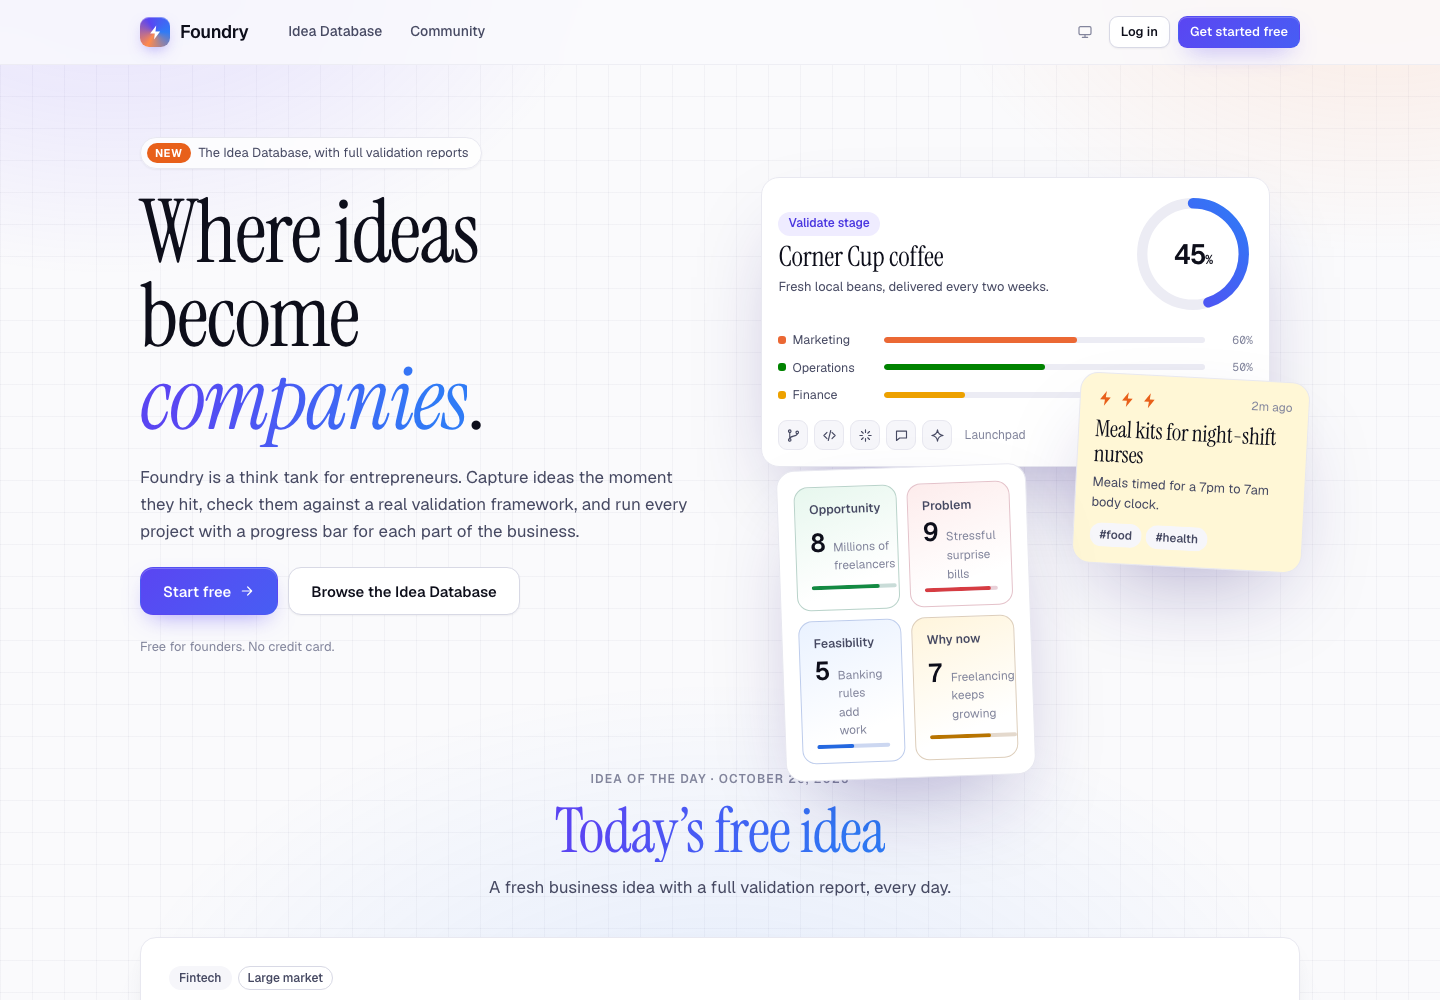
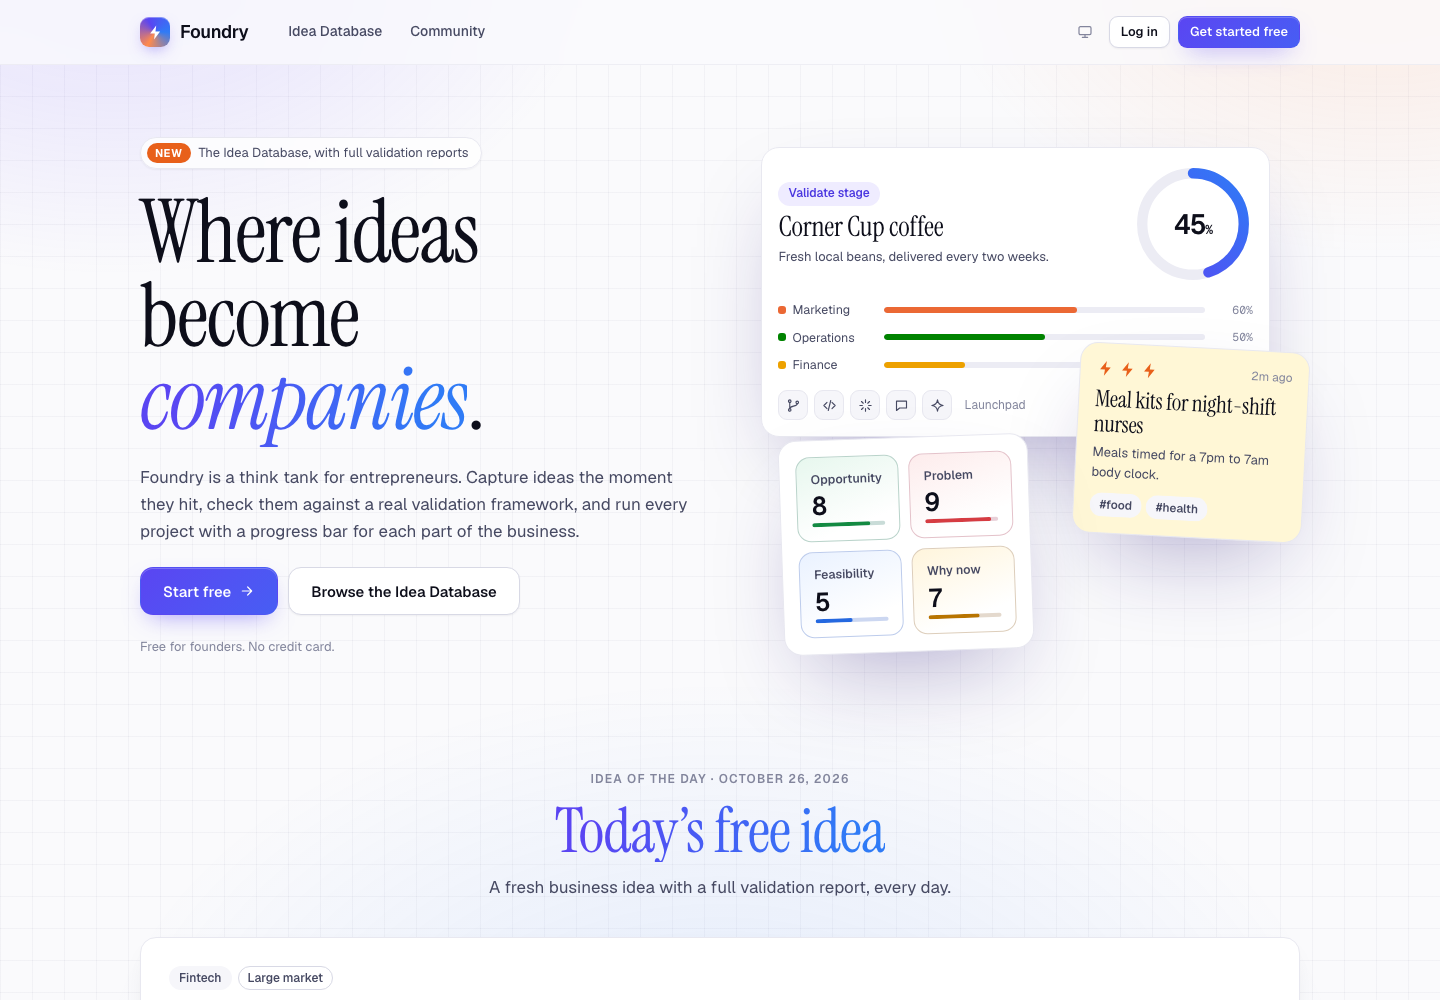
Keep the home page hero from overlapping the next section
The floating score card grew taller than the space the hero reserved for
it, so it covered the Idea of the day heading (and, on phones, part of the
project card). The card now has a fixed height, the hero reserves room for
it, and phones show just the project card.

Changed region(s): [[0.5312, 0.155, 0.9062, 0.744], [0.5625, 0.744, 0.6875, 0.806]]

diff --git a/src/app/globals.css b/src/app/globals.css
@@ -810,7 +810,7 @@ p {
 }
 .hero-visual {
   position: relative;
-  min-height: 460px;
+  min-height: 520px;
 }
 .mock {
   position: absolute;
@@ -835,6 +835,10 @@ p {
   left: 20px;
   top: 300px;
   transform: rotate(-2deg);
+}
+/* The captions change with the idea of the day; leaving them out keeps the card one height. */
+.mock-scores .score-val span {
+  display: none;
 }
 .float {
   animation: float 7s ease-in-out infinite;
@@ -2674,9 +2678,6 @@ p {
   .hero-grid {
     grid-template-columns: minmax(0, 1fr);
   }
-  .hero-visual {
-    min-height: 420px;
-  }
   .features,
   .idea-grid {
     grid-template-columns: repeat(2, minmax(0, 1fr));
@@ -2778,12 +2779,16 @@ p {
   .header-actions .hide-sm {
     display: none;
   }
+  /* Phones show only the project card, in the normal flow, so nothing overlaps. */
   .hero-visual {
-    min-height: 380px;
-    transform: scale(0.92);
-    transform-origin: top left;
+    min-height: 0;
   }
-  .mock-note {
+  .mock-project {
+    position: relative;
+    inset: auto;
+  }
+  .mock-note,
+  .mock-scores {
     display: none;
   }
 }
